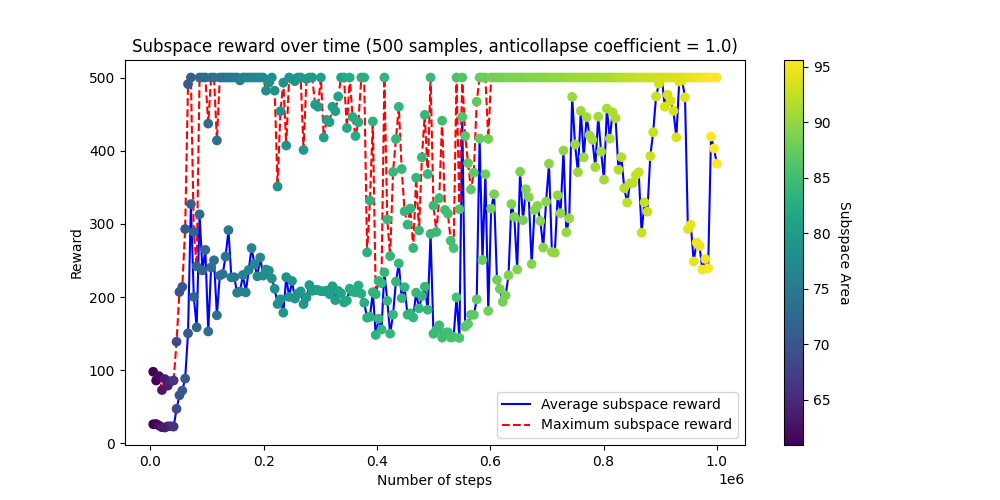
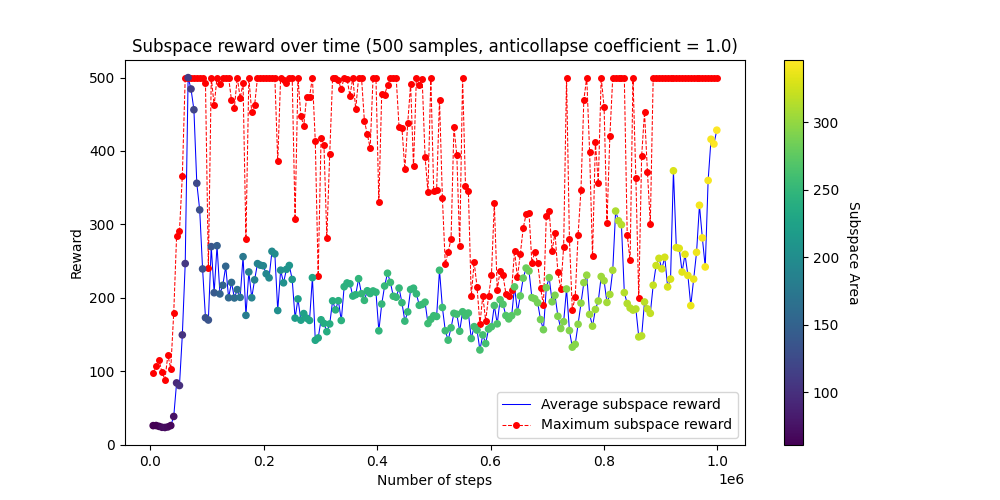
Results and Acrobot

diff --git a/src/bbrl_subspaces/envs/continuous_acrobot.py b/src/bbrl_subspaces/envs/continuous_acrobot.py
@@ -13,7 +13,7 @@ from numpy import cos, pi, sin
 import gymnasium as gym
 from gymnasium import Env, spaces
 from gymnasium.envs.classic_control import utils
-from gymnasium.envs.classic_control.acrobot import AcrobotEnv
+from gymnasium.envs.classic_control.acrobot import AcrobotEnv, bound, rk4, wrap
 from gymnasium.error import DependencyNotInstalled
 
 
@@ -33,67 +33,27 @@ __author__ = "Christoph Dann <cdann@cdann.de>"
 
 
 class ContinuousAcrobotSubspaceEnv(AcrobotEnv):
-    dt = 0.2
-
-    LINK_LENGTH_1 = 1.0  # [m]
-    LINK_LENGTH_2 = 1.0  # [m]
-    LINK_MASS_1 = 1.0  #: [kg] mass of link 1
-    LINK_MASS_2 = 1.0  #: [kg] mass of link 2
-    LINK_COM_POS_1 = 0.5  #: [m] position of the center of mass of link 1
-    LINK_COM_POS_2 = 0.5  #: [m] position of the center of mass of link 2
-    LINK_MOI = 1.0  #: moments of inertia for both links
-
-    MAX_VEL_1 = 4 * pi
-    MAX_VEL_2 = 9 * pi
-
-    AVAIL_TORQUE = [-1.0, 0.0, +1]
-
-    torque_noise_max = 0.0
-
-    SCREEN_DIM = 500
-
-    #: use dynamics equations from the nips paper or the book
-    book_or_nips = "book"
-    action_arrow = None
-    domain_fig = None
-    actions_num = 3
-
-
     def __init__(self, **kwargs):
         super().__init__(kwargs.get("render_mode", None))
         self.init_parameters(**kwargs)
-
-        self.screen = None
-        self.clock = None
-        self.isopen = True
-        high = np.array(
-            [1.0, 1.0, 1.0, 1.0, self.MAX_VEL_1, self.MAX_VEL_2], dtype=np.float32
-        )
-        low = -high
-        self.observation_space = spaces.Box(low=low, high=high, dtype=np.float32)
-        self.action_space = spaces.Discrete(3)
-        self.state = None
+        self.min_action = -1.0
+        self.max_action = 1.0
+        self.action_space = spaces.Box(low=self.min_action, high=self.max_action, shape=(1,))
 
 
-    def init_parameters(self, **kwargs):
-        pass
-
-
-    def reset(self, *, seed: Optional[int] = None, options: Optional[dict] = None):
-        super().reset(seed=seed)
-        # Note that if you use custom reset bounds, it may lead to out-of-bound
-        # state/observations.
-        low, high = utils.maybe_parse_reset_bounds(
-            options, -0.1, 0.1  # default low
-        )  # default high
-        self.state = self.np_random.uniform(low=low, high=high, size=(4,)).astype(
-            np.float32
-        )
-
-        if self.render_mode == "human":
-            self.render()
-        return self._get_ob(), {}
-
+    def init_parameters(self, dt=0.2, link_length_1=1.0, link_length_2=1.0, link_mass_1=1.0, link_mass_2=1.0, link_com_pos_1=0.5, link_com_pos_2=0.5, link_moi=1.0, g=9.8, max_vel_1=9*pi, max_vel_2=4*pi, torque_noise_max=0.0, **kwargs):
+        self.dt = dt
+        self.LINK_LENGTH_1 = link_length_1
+        self.LINK_LENGTH_2 = link_length_2
+        self.LINK_MASS_1 = link_mass_1
+        self.LINK_MASS_2 = link_mass_2
+        self.LINK_COM_POS_1 = link_com_pos_1
+        self.LINK_COM_POS_2 = link_com_pos_2
+        self.LINK_MOI = link_moi
+        self.GRAVITY = g
+        self.MAX_VEL_1 = max_vel_1
+        self.MAX_VEL_2 = max_vel_2
+        self.torque_noise_max = torque_noise_max
 
     def step(self, a):
         s = self.state
@@ -126,19 +86,6 @@ class ContinuousAcrobotSubspaceEnv(AcrobotEnv):
         return self._get_ob(), reward, terminated, False, {}
 
 
-    def _get_ob(self):
-        s = self.state
-        assert s is not None, "Call reset before using AcrobotEnv object."
-        return np.array(
-            [cos(s[0]), sin(s[0]), cos(s[1]), sin(s[1]), s[2], s[3]], dtype=np.float32
-        )
-
-
-    def _terminal(self):
-        s = self.state
-        assert s is not None, "Call reset before using AcrobotEnv object."
-        return bool(-cos(s[0]) - cos(s[1] + s[0]) > 1.0)
-
 
     def _dsdt(self, s_augmented):
         m1 = self.LINK_MASS_1
@@ -148,7 +95,7 @@ class ContinuousAcrobotSubspaceEnv(AcrobotEnv):
         lc2 = self.LINK_COM_POS_2
         I1 = self.LINK_MOI
         I2 = self.LINK_MOI
-        g = 9.8
+        g = self.GRAVITY
         a = s_augmented[-1]
         s = s_augmented[:-1]
         theta1 = s[0]
@@ -176,170 +123,3 @@ class ContinuousAcrobotSubspaceEnv(AcrobotEnv):
             ) / (m2 * lc2**2 + I2 - d2**2 / d1)
         ddtheta1 = -(d2 * ddtheta2 + phi1) / d1
         return dtheta1, dtheta2, ddtheta1, ddtheta2, 0.0
-
-
-    def render(self):
-        if self.render_mode is None:
-            assert self.spec is not None
-            gym.logger.warn(
-                "You are calling render method without specifying any render mode. "
-                "You can specify the render_mode at initialization, "
-                f'e.g. gym.make("{self.spec.id}", render_mode="rgb_array")'
-            )
-            return
-
-        try:
-            import pygame
-            from pygame import gfxdraw
-        except ImportError as e:
-            raise DependencyNotInstalled(
-                'pygame is not installed, run `pip install "gymnasium[classic-control]"`'
-            ) from e
-
-        if self.screen is None:
-            pygame.init()
-            if self.render_mode == "human":
-                pygame.display.init()
-                self.screen = pygame.display.set_mode(
-                    (self.SCREEN_DIM, self.SCREEN_DIM)
-                )
-            else:  # mode in "rgb_array"
-                self.screen = pygame.Surface((self.SCREEN_DIM, self.SCREEN_DIM))
-        if self.clock is None:
-            self.clock = pygame.time.Clock()
-
-        surf = pygame.Surface((self.SCREEN_DIM, self.SCREEN_DIM))
-        surf.fill((255, 255, 255))
-        s = self.state
-
-        bound = self.LINK_LENGTH_1 + self.LINK_LENGTH_2 + 0.2  # 2.2 for default
-        scale = self.SCREEN_DIM / (bound * 2)
-        offset = self.SCREEN_DIM / 2
-
-        if s is None:
-            return None
-
-        p1 = [
-            -self.LINK_LENGTH_1 * cos(s[0]) * scale,
-            self.LINK_LENGTH_1 * sin(s[0]) * scale,
-        ]
-
-        p2 = [
-            p1[0] - self.LINK_LENGTH_2 * cos(s[0] + s[1]) * scale,
-            p1[1] + self.LINK_LENGTH_2 * sin(s[0] + s[1]) * scale,
-        ]
-
-        xys = np.array([[0, 0], p1, p2])[:, ::-1]
-        thetas = [s[0] - pi / 2, s[0] + s[1] - pi / 2]
-        link_lengths = [self.LINK_LENGTH_1 * scale, self.LINK_LENGTH_2 * scale]
-
-        pygame.draw.line(
-            surf,
-            start_pos=(-2.2 * scale + offset, 1 * scale + offset),
-            end_pos=(2.2 * scale + offset, 1 * scale + offset),
-            color=(0, 0, 0),
-        )
-
-        for (x, y), th, llen in zip(xys, thetas, link_lengths):
-            x = x + offset
-            y = y + offset
-            l, r, t, b = 0, llen, 0.1 * scale, -0.1 * scale
-            coords = [(l, b), (l, t), (r, t), (r, b)]
-            transformed_coords = []
-            for coord in coords:
-                coord = pygame.math.Vector2(coord).rotate_rad(th)
-                coord = (coord[0] + x, coord[1] + y)
-                transformed_coords.append(coord)
-            gfxdraw.aapolygon(surf, transformed_coords, (0, 204, 204))
-            gfxdraw.filled_polygon(surf, transformed_coords, (0, 204, 204))
-
-            gfxdraw.aacircle(surf, int(x), int(y), int(0.1 * scale), (204, 204, 0))
-            gfxdraw.filled_circle(surf, int(x), int(y), int(0.1 * scale), (204, 204, 0))
-
-        surf = pygame.transform.flip(surf, False, True)
-        self.screen.blit(surf, (0, 0))
-
-        if self.render_mode == "human":
-            pygame.event.pump()
-            self.clock.tick(self.metadata["render_fps"])
-            pygame.display.flip()
-
-        elif self.render_mode == "rgb_array":
-            return np.transpose(
-                np.array(pygame.surfarray.pixels3d(self.screen)), axes=(1, 0, 2)
-            )
-
-
-    def close(self):
-        if self.screen is not None:
-            import pygame
-
-            pygame.display.quit()
-            pygame.quit()
-            self.isopen = False
-
-
-
-def wrap(x, m, M):
-    """Wraps `x` so m <= x <= M; but unlike `bound()` which
-    truncates, `wrap()` wraps x around the coordinate system defined by m,M.\n
-    For example, m = -180, M = 180 (degrees), x = 360 --> returns 0.
-
-    Args:
-        x: a scalar
-        m: minimum possible value in range
-        M: maximum possible value in range
-
-    Returns:
-        x: a scalar, wrapped
-    """
-    diff = M - m
-    while x > M:
-        x = x - diff
-    while x < m:
-        x = x + diff
-    return x
-
-
-def bound(x, m, M=None):
-    """Either have m as scalar, so bound(x,m,M) which returns m <= x <= M *OR*
-    have m as length 2 vector, bound(x,m, <IGNORED>) returns m[0] <= x <= m[1].
-
-    Args:
-        x: scalar
-        m: The lower bound
-        M: The upper bound
-
-    Returns:
-        x: scalar, bound between min (m) and Max (M)
-    """
-    if M is None:
-        M = m[1]
-        m = m[0]
-    # bound x between min (m) and Max (M)
-    return min(max(x, m), M)
-
-
-def rk4(derivs, y0, t):
-    try:
-        Ny = len(y0)
-    except TypeError:
-        yout = np.zeros((len(t),), np.float64)
-    else:
-        yout = np.zeros((len(t), Ny), np.float64)
-
-    yout[0] = y0
-
-    for i in np.arange(len(t) - 1):
-        this = t[i]
-        dt = t[i + 1] - this
-        dt2 = dt / 2.0
-        y0 = yout[i]
-
-        k1 = np.asarray(derivs(y0))
-        k2 = np.asarray(derivs(y0 + dt2 * k1))
-        k3 = np.asarray(derivs(y0 + dt2 * k2))
-        k4 = np.asarray(derivs(y0 + dt * k3))
-        yout[i + 1] = y0 + dt / 6.0 * (k1 + 2 * k2 + 2 * k3 + k4)
-    # We only care about the final timestep and we cleave off action value which will be zero
-    return yout[-1][:4]

diff --git a/src/bbrl_subspaces/frameworks/scenarios.py b/src/bbrl_subspaces/frameworks/scenarios.py
@@ -38,15 +38,35 @@ class GymScenario(Scenario):
                         return {}
                     
             case "PendulumSubspace-v0" | "PendulumSubspace-v1":
+                # Environment parameters:
+                #     max_speed: maximum angular speed
+                #     max_torque: maximum torque
+                #     dt: seconds between state updates
+                #     g: acceleration due to gravity
+                #     m: mass of the pendulum
+                #     l: length of the pendulum
                 match task:
                     case "normal" | _:
                         return {}
                     
             case "AcrobotContinuousSubspace-v0" | "AcrobotContinuousSubspace-v1":
+                # Environment parameters:
+                #     dt: seconds between state updates
+                #     link_length_1: length of link 1
+                #     link_length_2: length of link 2
+                #     link_mass_1: mass of link 1
+                #     link_mass_2: mass of link 2
+                #     link_com_pos_1: position of the center of mass of link 1
+                #     link_com_pos_2: position of the center of mass of link 2
+                #     link_moi: moments of inertia for both links
+                #     g: acceleration due to gravity
+                #     max_vel_1: maximum angular velocity of link 1
+                #     max_vel_2: maximum angular velocity of link 2
+                #     torque_noise_max: maximum noise to be added to the torque
                 match task:
                     case "normal" | _:
                         return {}
             
-            # Environment not supported -> Use default configuration
+            # Unsupported environment: use default configuration
             case _:
                 return {}

diff --git a/src/bbrl_subspaces/algorithms/alpha_search.py b/src/bbrl_subspaces/algorithms/alpha_search.py
@@ -77,8 +77,11 @@ class AlphaSearch:
 
             # Estimate best alphas in the former subspace using n_samples sampled policies
             alphas = Dirichlet(torch.ones(former_n_anchors)).sample(torch.Size([n_samples]))
+            
             # Zero padding to match the size of the current subspace
-            alphas = torch.cat([alphas, torch.zeros(*alphas.shape[:-1], 1)], dim=-1)
+            if not self.is_initial_task:
+                alphas = torch.cat([alphas, torch.zeros(*alphas.shape[:-1], 1)], dim=-1)
+                
             alphas = torch.stack([alphas for _ in range(2)], dim=0)
             values = []
             

diff --git a/src/bbrl_subspaces/algorithms/sac.py b/src/bbrl_subspaces/algorithms/sac.py
@@ -23,6 +23,7 @@ from bbrl_subspaces.agents.utils import SubspaceAgents
 from bbrl_subspaces.logger import Logger
 
 import matplotlib
+import os
 import time
 
 matplotlib.use("TkAgg")
@@ -33,6 +34,11 @@ class SAC:
         self.name = name
         self.env_name = env_name
         self.cfg = params
+
+        output_path = "./figures/reward_curves"
+        if not os.path.exists(output_path):
+            os.makedirs(output_path)
+
 
     # Create the SAC Agent
     def create_sac_agent(self, train_env_agent, eval_env_agent, actor, critic_1, critic_2):
